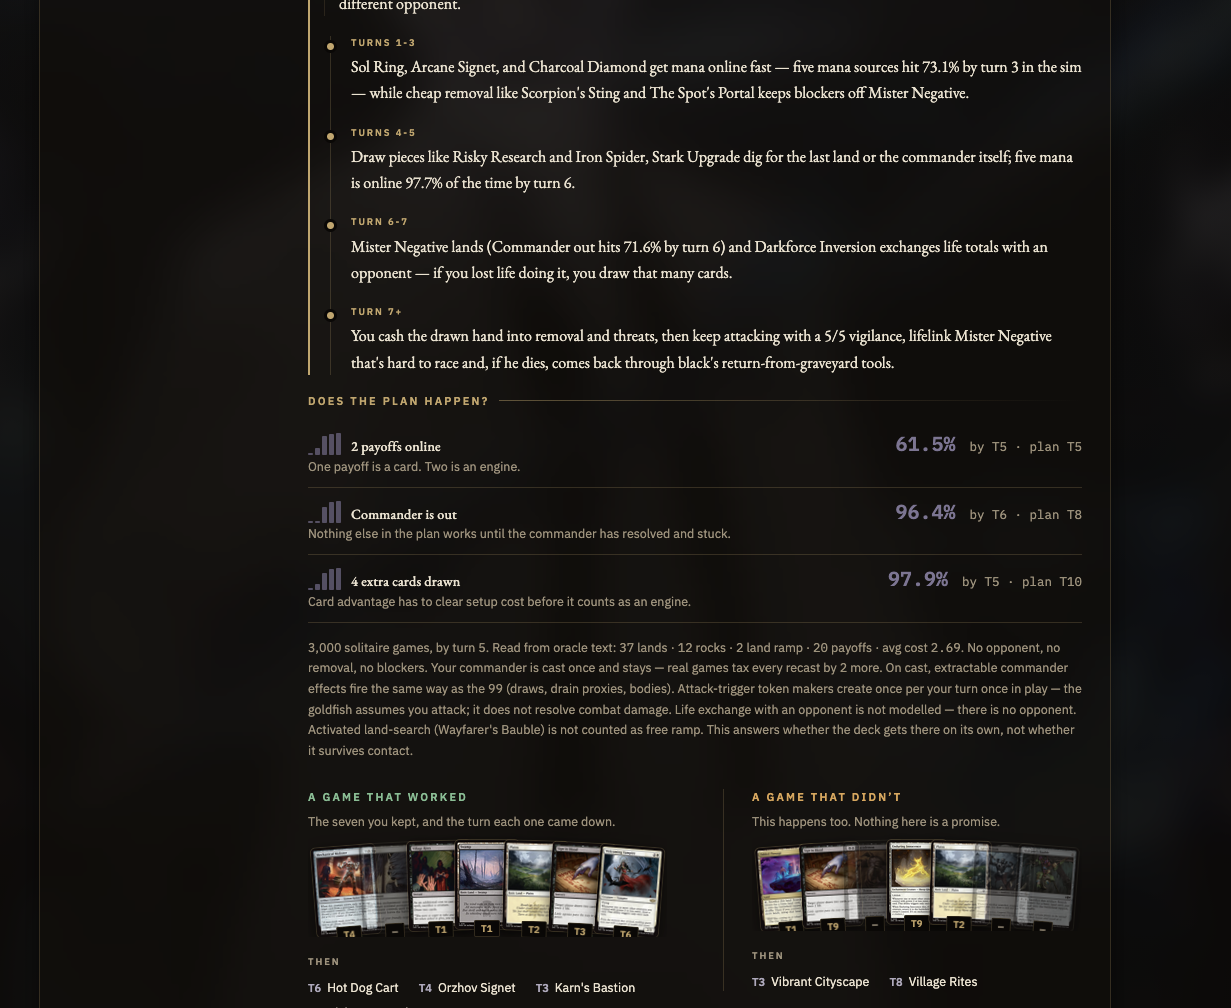
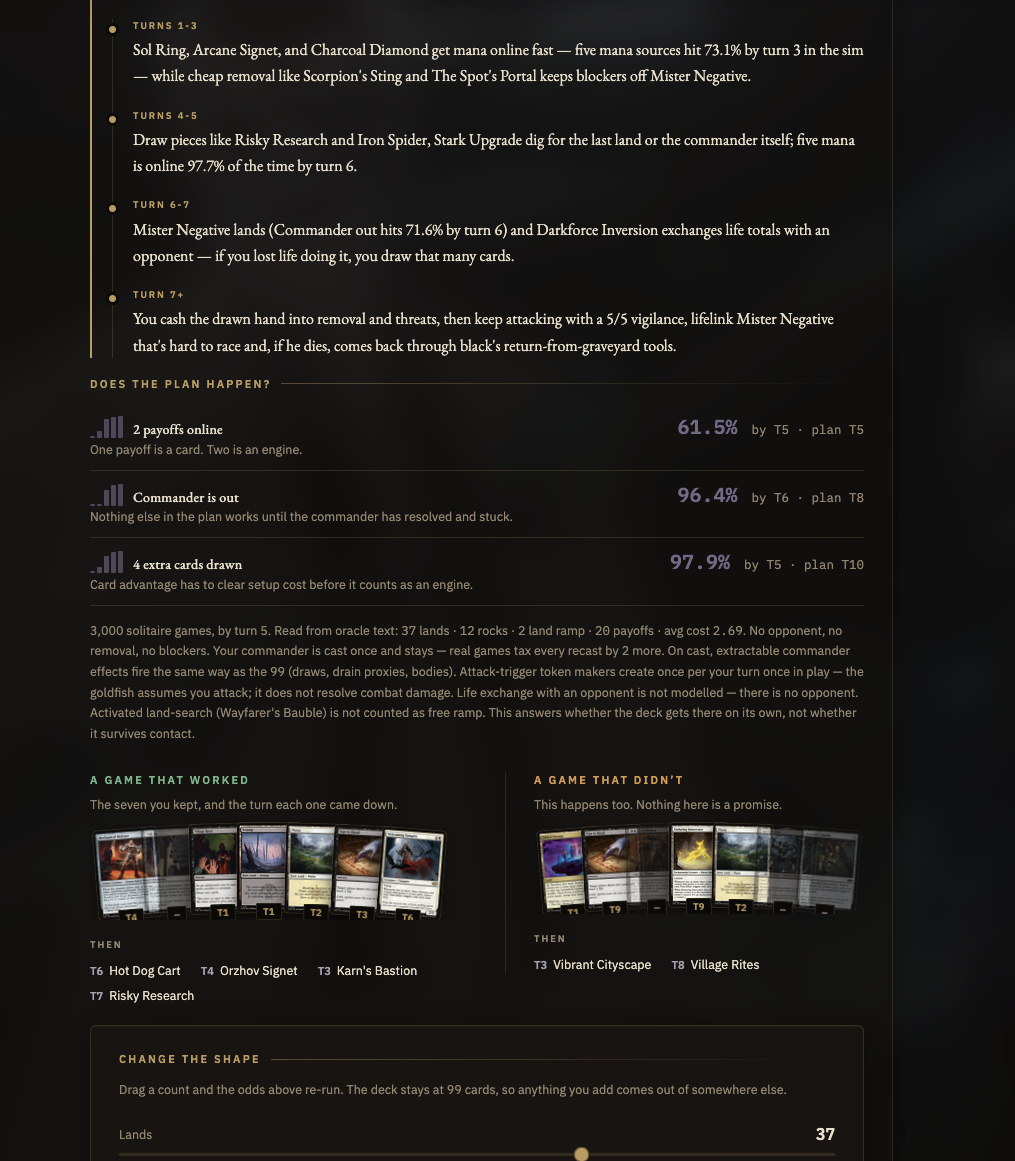
Docs: sharper README screenshots (#13)
* Docs: sharper README screenshots for plan, decklist, and follow-up chat

* Docs: add How to play screenshot

* Docs: describe the chat, commander match, and synergy build in the README

---------

Changed region(s): [[0.0916, 0.0, 0.8857, 1.0]]

diff --git a/README.md b/README.md
@@ -7,7 +7,9 @@
 [![Python 3.12+](https://img.shields.io/badge/python-3.12%2B-3776AB?logo=python&logoColor=white)](https://www.python.org/downloads/)
 [![License: MIT](https://img.shields.io/badge/license-MIT-green)](LICENSE)
 
-DeckWright is a local Commander (EDH) deckbuilder for Magic: The Gathering. You describe the deck you want in plain English. It asks a few questions, offers real commanders, builds a legal 99 from Scryfall searches (never from card names the model remembers), and estimates how often the deck's plan comes together in solitaire goldfish games.
+DeckWright is a local Commander (EDH) deckbuilder for Magic: The Gathering. It starts with a conversation, not a card search. You say what you want the deck to feel like: a theme, a style, how you like to win, or just a vibe. The chat keeps asking until it understands. It narrows that down to legendary creatures that really do what you described. Then, from tens of thousands of legal cards, it picks the synergy pieces that serve that commander and that plan.
+
+Every card comes from a live Scryfall search, never from card names the model remembers. The result is a legal 99 built around your idea, with a plain statement of the plan and odds for how often it comes together.
 
 It runs on your own machine: one FastAPI process and one HTML page, with no build step and no database. It is not a hosted service.
 
@@ -15,8 +17,9 @@ It runs on your own machine: one FastAPI process and one HTML page, with no buil
 
 ## Features
 
-- **Plain-English brief.** Say what you want ("dragons", "durdle and gain life"); it asks follow-ups and reads back each term with the Scryfall search behind it.
-- **Real commanders.** Five legal picks that fit, with colours, themes, and ways to play, plus partner pairs where the rules allow.
+- **A chat that gets what you mean.** Start vague ("something sneaky", "I want to durdle and gain life") or specific ("Golgari aristocrats"). It asks follow-ups about theme, style, and how you like to play. Then it reads back each idea with the Scryfall search behind it, so you can see what it understood and correct it.
+- **The right commander for your idea.** Five real legendary creatures that do what you asked for, each with its colours, themes, and ways to play, plus partner pairs where the rules allow. Pick one, or ask for more.
+- **Synergy, not just staples.** The 99 is built around the commander and your plan: payoffs, enablers, and theme cards that work together, on top of the ramp, draw, and removal every deck needs.
 - **No invented cards.** The 99 is built role by role from Scryfall search results; any name the model suggests that Scryfall did not return is dropped.
 - **A plan you can check.** A short thesis names the cards that carry the plan, and thousands of solitaire goldfish games estimate how often it comes together.
 - **Edit with guard rails.** Ask about the deck, stage swaps from the same verified pools, approve or reject them, and keep notes.
@@ -44,29 +47,33 @@ flowchart LR
 
    <img src="docs/assets/landing.png" alt="Landing page with starter prompts and saved decks" width="640">
 
-   The **How to play** door opens a short primer on Commander for new players:
+   The **How to play** door opens a short primer on Commander for new players.
 
-   ![The in-app How to play primer](docs/assets/ui-walkthrough.gif)
+   <img src="docs/assets/how-to-play.png" alt="How to play: Commander in about five minutes" width="720">
 
-2. **Chat.** You describe the deck in plain words ("something with dragons", "I want to durdle and gain life"). The app asks a few follow-up questions and keeps asking until it understands the theme well enough to search for it.
+2. **Chat.** You describe the deck in plain words: a creature type, a mechanic, a flavour, a way of winning, or how you want games to feel. The chat asks follow-up questions about theme, style, and play pattern. It keeps going until it can turn your words into real card searches. You can change direction at any point.
 
 3. **Readback.** The app repeats back what it understood, term by term, with the Scryfall search behind each one. It flags terms that found nothing or could not be checked instead of pretending they are fine.
 
-4. **Commanders.** You get five real commanders that fit, each with its colours, themes, and the ways it likes to play. "Show me more" pages through further matches, and partner pairs are offered where the rules allow.
+4. **Commanders.** The chat narrows your idea down to legendary creatures that really reward it. You get five that fit, each with its colours, themes, and the ways it likes to play. "Show me more" pages through further matches, and partner pairs are offered where the rules allow. The commander you pick anchors everything that follows.
 
-5. **Build 99.** The app builds the 99 role by role (lands, ramp, draw, removal, the plan, the theme, a few deep cuts). Every card comes from a Scryfall search result, and any name the model suggests that is not in those results is dropped.
+5. **Build 99.** The app builds the 99 role by role. First it fills the slots every deck needs: lands, ramp, draw, and removal. Then come the cards that make this deck yours: payoffs that win with the plan, enablers that set it up, theme cards for the style you asked for, and a few deep cuts. Each pick is chosen for how it works with the commander and the rest of the 99. Every card comes from a Scryfall search result, and any name the model suggests that is not in those results is dropped.
 
 6. **Thesis.** The app states the plan in a few lines: what the deck is trying to do and which cards in this 99 carry it. Payoff cards must be in the deck, and the plan's conditions must be things the simulator can measure.
 
 7. **Simulate.** The app plays thousands of solitaire goldfish games and reports how often the plan comes together and by which turn. It also calls out what it cannot model, such as effects that depend on opponents.
 
-   ![Turn plan and solitaire odds for whether the plan happens](docs/assets/plan.png)
+   <img src="docs/assets/plan.png" alt="Turn-by-turn plan, the odds that it happens, and sample games that worked and did not" width="720">
 
 8. **Deck page.** You see the commander, legality and price, the plan, the odds, and the 99 grouped by role. The deck is saved to `~/.deckwright/` as soon as it is built. (The screenshot at the top of this README is a deck page.)
 
 9. **Ask / save / export.** You can ask questions about the deck, stage card swaps from the same real card pools and approve or reject them, rename and keep notes, and export the list as text, an Archidekt import, or a shopping list.
 
-   ![The 99 grouped by role, with prices and export actions](docs/assets/decklist.png)
+   <img src="docs/assets/decklist.png" alt="The 99 grouped by role with prices, plus export, naming, and price total" width="720">
+
+   The conversation keeps going after the build. Ask why a card is there or what a number means, or ask for a change; swaps are shown first and wait for you to approve them.
+
+   <img src="docs/assets/ask.png" alt="Still talking: ask about the deck or request changes" width="720">
 
 **Side door: Precon / import.** From the landing page you can open a preconstructed Commander deck or paste a list you already own. The app analyzes it the same way and lands on the same deck page, with suggested upgrades.
 
